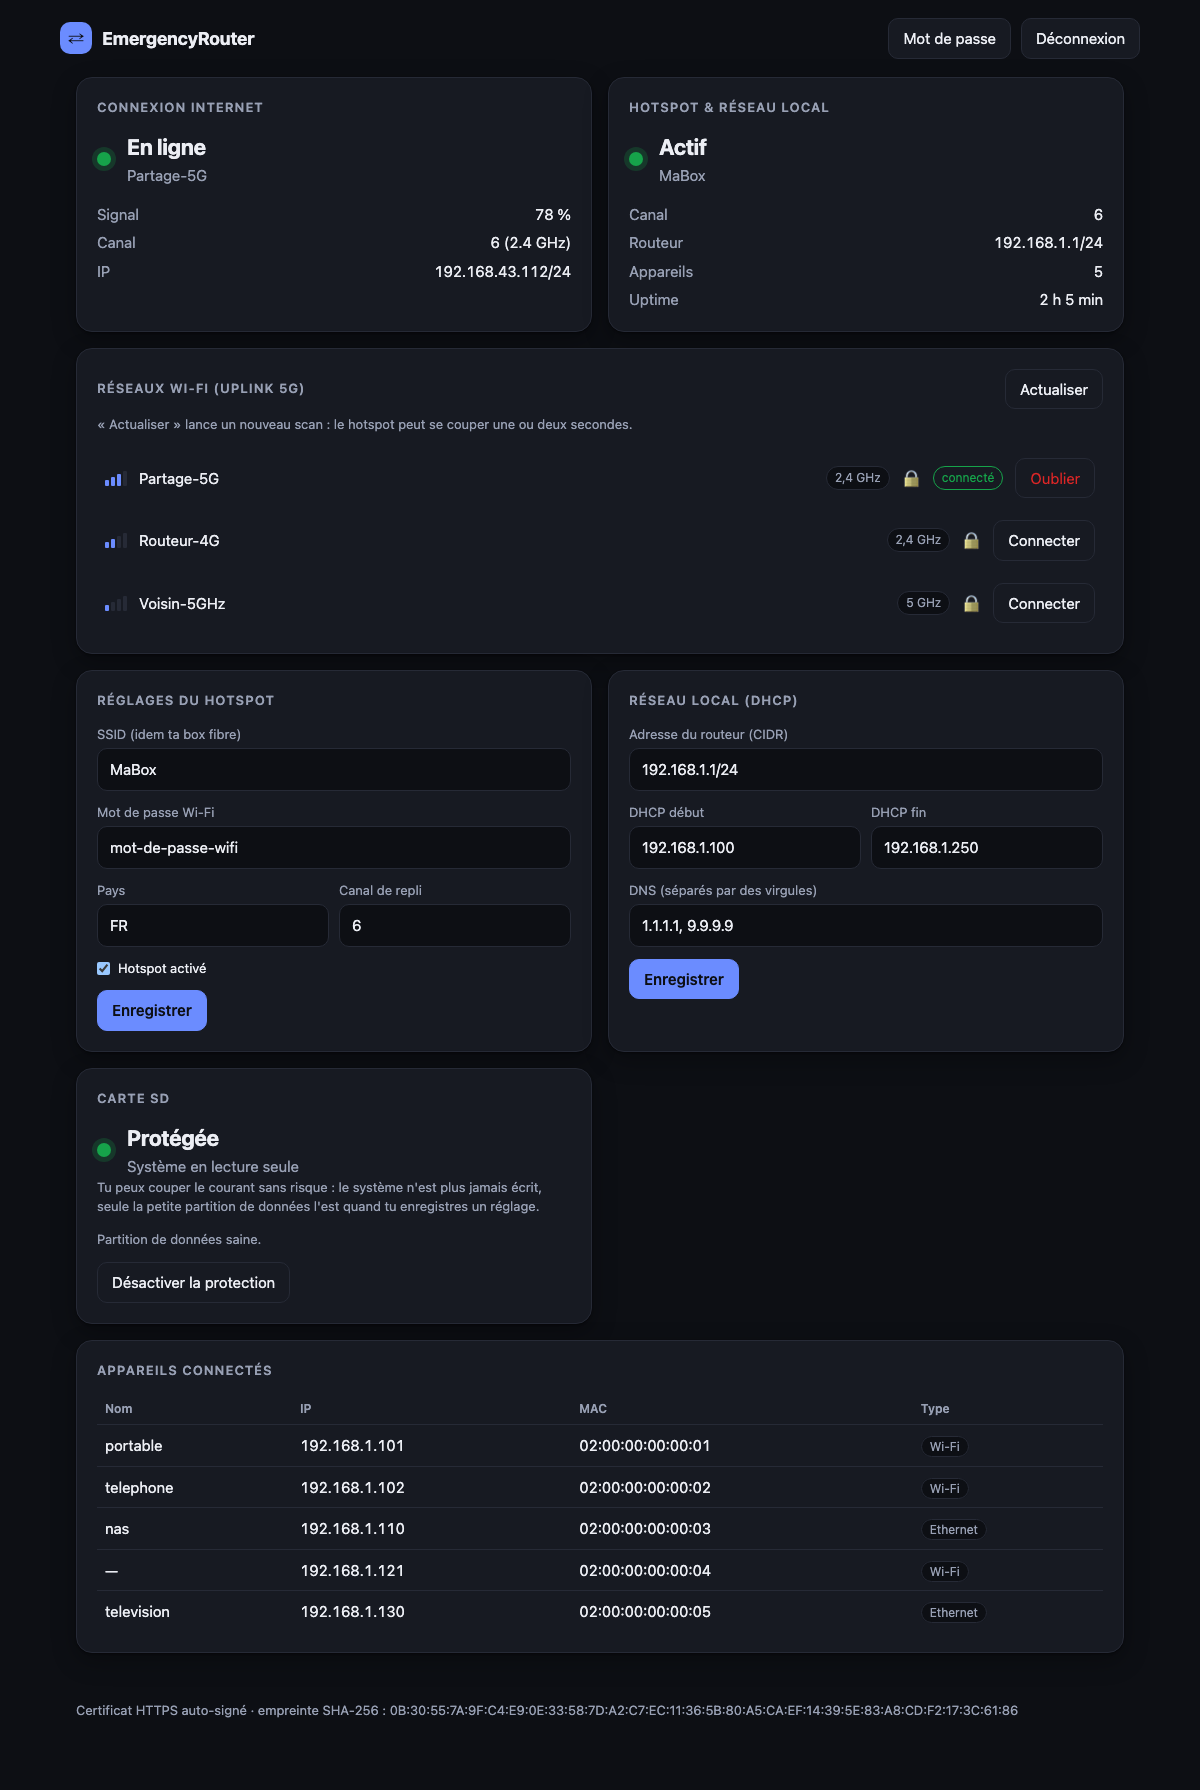
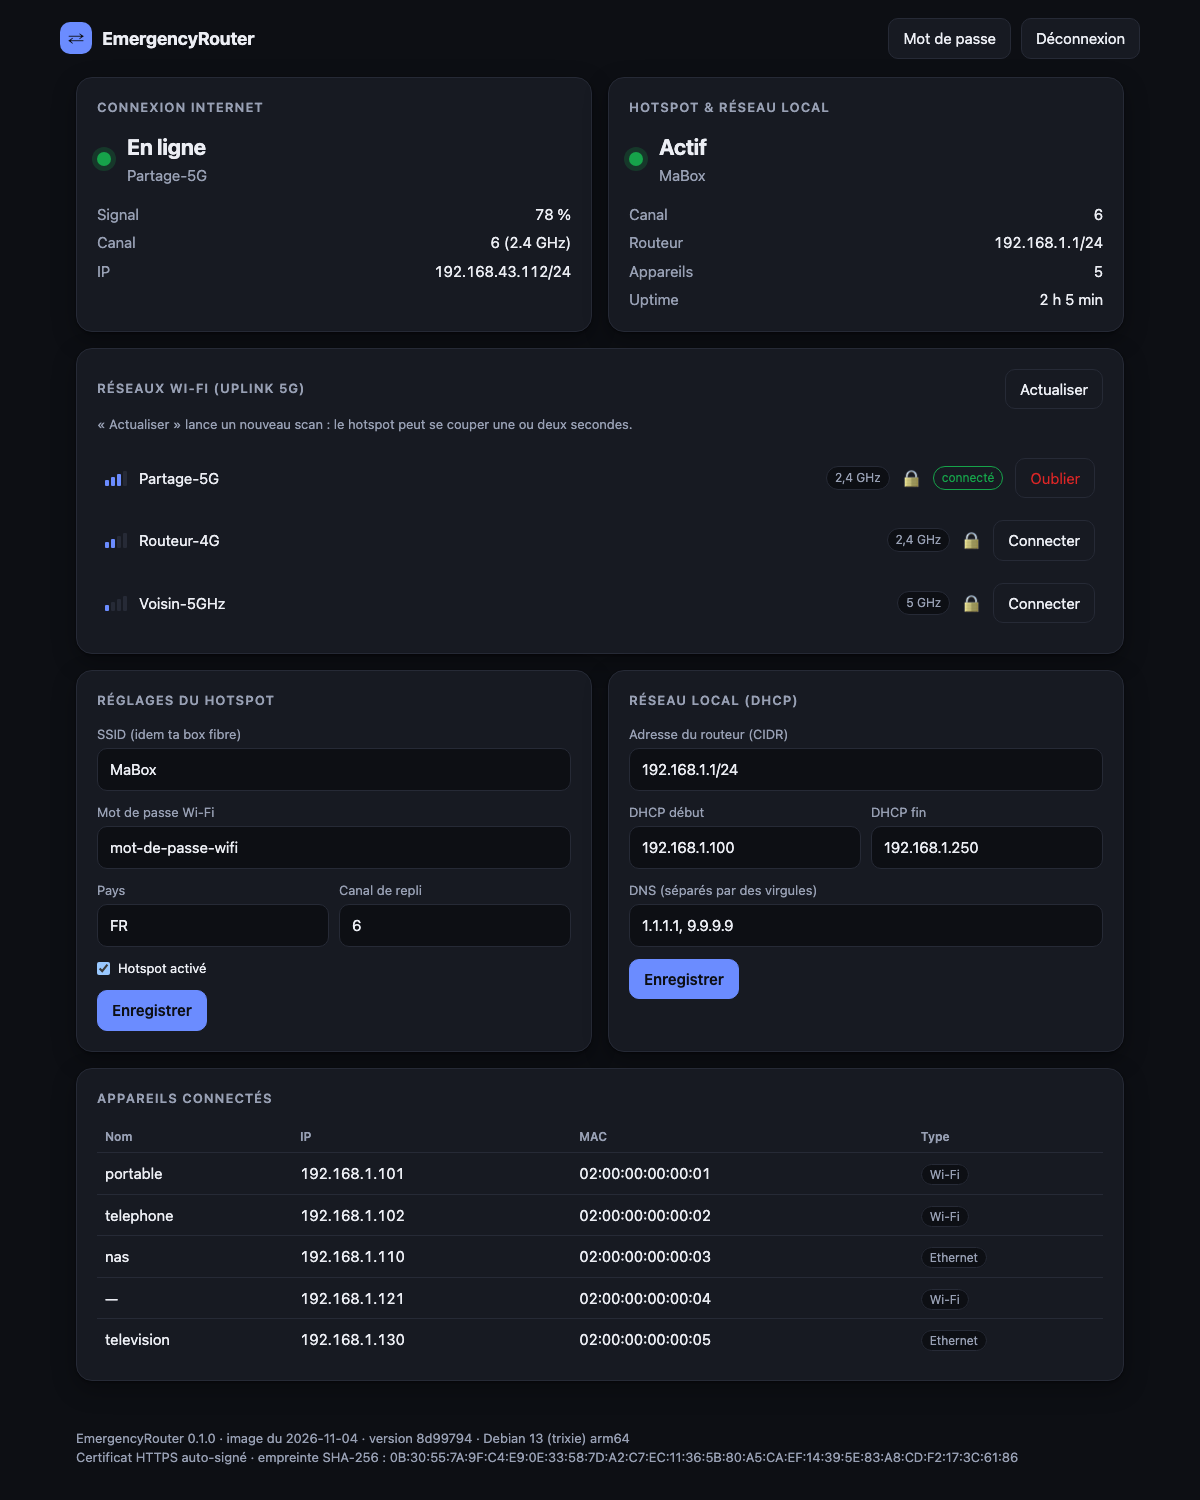
Retire la carte « Carte SD » de l'interface et affiche la version
- la protection du système se règle en ligne de commande (erouter-fs) ; l'interface n'affiche
  plus que les avertissements (partition de données réparée ou recréée) ; route /api/fs et
  méthode RPC fs_set supprimées (7 méthodes au lieu de 8)
- pied de page : version du logiciel, date et commit de l'image, système, empreinte du certificat ;
  écrit à la construction (build-info.json), visible seulement après connexion (plus de version
  dans la page de connexion)

diff --git a/erouter/static/app.js b/erouter/static/app.js
@@ -3,7 +3,6 @@ const $ = s => document.querySelector(s);
 const esc = s => String(s ?? "").replace(/[&<>"']/g, c => ({"&": "&amp;", "<": "&lt;", ">": "&gt;", '"': "&quot;", "'": "&#39;"}[c]));
 let timers = [];
 let saved = [];
-let fsState = {enabled: false};
 
 async function api(path, body) {
   const opt = body === undefined ? {} : {method: "POST", headers: {"Content-Type": "application/json"}, body: JSON.stringify(body)};
@@ -46,51 +45,19 @@ $("#loginForm").onsubmit = async e => {
 };
 $("#logoutBtn").onclick = async () => { await api("/api/logout", {}); boot(); };
 
-const DATA_STATE = {ok: "Partition de données saine.", repaired: "Partition de données réparée automatiquement au démarrage.",
-  reset: "Partition de données recréée au démarrage : configuration remise à zéro.", none: ""};
-
-function renderFs(f) {
-  fsState = f;
-  const dot = $("#fsDot"), btn = $("#fsBtn");
-  $("#fsData").textContent = f.available ? (DATA_STATE[f.data] ?? "") : "";
-  if (!f.available) {
-    dot.className = "dot warn"; $("#fsTitle").textContent = "Non disponible";
-    $("#fsSub").textContent = "Pas de partition de données";
-    $("#fsHelp").textContent = "La protection de la carte (système en lecture seule) demande l'image EmergencyRouter, qui a une partition de données séparée.";
-    btn.hidden = true;
-    return;
-  }
-  btn.hidden = false;
-  if (f.locked) {
-    dot.className = "dot ok"; $("#fsTitle").textContent = "Protégée";
-    $("#fsSub").textContent = "Système en lecture seule";
-    $("#fsHelp").textContent = "Tu peux couper le courant sans risque : le système n'est plus jamais écrit, seule la petite partition de données l'est quand tu enregistres un réglage.";
-    btn.textContent = "Désactiver la protection";
-  } else if (f.enabled) {
-    dot.className = "dot warn"; $("#fsTitle").textContent = f.rescue ? "Mode secours" : "En attente";
-    $("#fsSub").textContent = f.rescue ? "Verrouillage ignoré (erouter.unlock)" : "Verrouillage en cours";
-    $("#fsHelp").textContent = f.rescue ? "Retire « erouter.unlock » de cmdline.txt pour réactiver la protection."
-      : "Le système passera en lecture seule dès que le démarrage est terminé.";
-    btn.textContent = "Désactiver la protection";
-  } else {
-    dot.className = "dot bad"; $("#fsTitle").textContent = "Non protégée";
-    $("#fsSub").textContent = "Lecture-écriture";
-    $("#fsHelp").textContent = "Le système peut être abîmé par une coupure de courant. Active la protection quand la configuration est terminée.";
-    btn.textContent = "Activer la protection";
-  }
+function renderBuild(b) {
+  if (!b) return;
+  const parts = ["EmergencyRouter " + b.version];
+  if (b.built) parts.push("image du " + b.built);
+  if (b.commit) parts.push("version " + b.commit);
+  if (b.os) parts.push(b.os);
+  $("#buildInfo").textContent = parts.join(" · ");
 }
 function renderTls(t) {
   const el = $("#tlsInfo");
   el.hidden = !(t && t.ready);
   el.textContent = t && t.ready ? "Certificat HTTPS auto-signé · empreinte SHA-256 : " + t.fingerprint : "";
 }
-$("#fsBtn").onclick = async () => {
-  const enable = !fsState.enabled;
-  if (!enable && !confirm("Désactiver la protection de la carte SD ?")) return;
-  try { renderFs(await api("/api/fs", {enabled: enable})); toast(enable ? "Protection activée" : "Protection désactivée"); }
-  catch (e) { toast(e.message); }
-};
-
 async function refresh() {
   const s = await api("/api/status");
   const u = s.uplink;
@@ -105,7 +72,7 @@ async function refresh() {
   $("#apSub").textContent = a.enabled ? a.ssid : "";
   $("#apKv").innerHTML = kv([["Canal", a.channel], ["Routeur", s.lan.address], ["Appareils", s.lan.clients], ["Uptime", fmtUp(s.uptime)]]);
   const w = $("#warnings"); w.hidden = !s.warnings.length; w.innerHTML = s.warnings.map(esc).join("<br>");
-  renderFs(s.fs);
+  renderBuild(s.build);
   renderTls(s.tls);
   const c = await api("/api/clients");
   $("#clients").innerHTML = c.clients.map(x => `<tr><td>${esc(x.hostname || "—")}</td><td>${esc(x.ip)}</td><td>${esc(x.mac)}</td>` +

diff --git a/erouter/static/index.html b/erouter/static/index.html
@@ -79,21 +79,15 @@
     </form>
   </section>
 
-  <section class="card">
-    <h2>Carte SD</h2>
-    <div class="hero"><span class="dot" id="fsDot"></span>
-      <div><div class="big" id="fsTitle">…</div><div class="muted" id="fsSub"></div></div></div>
-    <p class="muted small" id="fsHelp"></p>
-    <p class="muted small" id="fsData"></p>
-    <button id="fsBtn" hidden></button>
-  </section>
-
   <section class="card wide">
     <h2>Appareils connectés</h2>
     <div class="table-wrap"><table><thead><tr><th>Nom</th><th>IP</th><th>MAC</th><th>Type</th></tr></thead><tbody id="clients"></tbody></table></div>
   </section>
 </main>
-<footer class="foot muted small" id="tlsInfo" hidden></footer>
+<footer class="foot muted small">
+  <div id="buildInfo"></div>
+  <div id="tlsInfo" hidden></div>
+</footer>
 </div>
 
 <dialog id="joinDlg">

diff --git a/erouter/web.py b/erouter/web.py
@@ -1,6 +1,7 @@
 """Interface web (service sans privilèges). Tout ce qui touche au système passe par l'agent (rpc.py)."""
 import functools
 import hashlib
+import json
 import logging
 import os
 import re
@@ -18,6 +19,7 @@ from . import __version__, config, rpc
 log = logging.getLogger("erouter.web")
 
 STATIC = os.path.join(os.path.dirname(__file__), "static")
+BUILD_INFO = os.environ.get("EROUTER_BUILD_INFO", "/usr/share/erouter/build-info.json")
 DEFAULT_AP_PASSWORDS = ("erouter-setup", "changeme123")   # mots de passe de démonstration, publics
 PASSWORD_MIN, PASSWORD_MAX = 8, 128      # le maximum évite de faire calculer un hash sur une entrée géante
 MAX_FAILURES, FAILURE_WINDOW = 5, 60     # 5 échecs par minute et par adresse
@@ -57,6 +59,20 @@ def init_secret(timeout=30):
     if not secret:
         log.warning("secret de session absent : clé temporaire (les sessions ne survivront pas à un redémarrage)")
     app.secret_key = secret or _BOOT_SECRET
+
+
+def build_info():
+    """Version du logiciel et de l'image (écrite à la construction) : affichée seulement après connexion."""
+    info = {"version": __version__}
+    try:
+        with open(BUILD_INFO) as f:
+            data = json.load(f)
+        for key in ("version", "commit", "built", "os", "source"):
+            if isinstance(data.get(key), str) and len(data[key]) <= 64:
+                info[key] = data[key]
+    except (OSError, ValueError, AttributeError):
+        pass
+    return info
 
 
 def _cfg():
@@ -164,7 +180,7 @@ def static_files(name):
 def get_session():
     cfg = _cfg()
     ok = bool(session.get("ok")) and session.get("pv") == _fingerprint(cfg)
-    return jsonify(setup_needed=not cfg["web"]["password_hash"], authenticated=ok, version=__version__)
+    return jsonify(setup_needed=not cfg["web"]["password_hash"], authenticated=ok)
 
 
 @app.post("/api/login")
@@ -226,6 +242,7 @@ def status():
     s = rpc.call("status")
     s["lan"] = {"address": cfg["lan"]["address"], "clients": s.pop("clients")}
     s["ap"]["ssid"] = cfg["ap"]["ssid"]
+    s["build"] = build_info()
     if cfg["ap"]["password"] in DEFAULT_AP_PASSWORDS:
         s["warnings"].append("Le hotspot utilise encore un mot de passe par défaut, connu de tous : "
                              "change-le dans « Réglages du hotspot ».")
@@ -295,15 +312,6 @@ def set_settings():
 @auth
 def clients():
     return jsonify(clients=rpc.call("clients"))
-
-
-@app.post("/api/fs")
-@auth
-def set_fs():
-    try:
-        return jsonify(rpc.call("fs_set", enabled=bool(request.get_json().get("enabled"))))
-    except RuntimeError as e:
-        return err(e, 500)
 
 
 @app.post("/api/reboot")

diff --git a/tests/test_erouter.py b/tests/test_erouter.py
@@ -450,6 +450,29 @@ class WebTests(unittest.TestCase):
         finally:
             web.configure(False)
 
+    def test_version_is_only_shown_after_login(self):
+        self.assertNotIn("version", self.c.get("/api/session").get_json(), "pas de version pour un visiteur anonyme")
+        self.login()
+        info = os.path.join(_TMP, "build-info.json")
+        with open(info, "w") as f:
+            json.dump({"version": "9.9.9", "commit": "abc1234", "built": "2026-11-04", "os": "Debian 13", "evil": "x"}, f)
+        with mock.patch.object(web, "BUILD_INFO", info):
+            b = self.c.get("/api/status").get_json()["build"]
+        self.assertEqual((b["version"], b["commit"], b["built"], b["os"]), ("9.9.9", "abc1234", "2026-11-04", "Debian 13"))
+        self.assertNotIn("evil", b, "seules les clés connues sont exposées")
+
+    def test_build_info_falls_back_to_package_version(self):
+        for content in (None, "pas du json", "[1, 2]", json.dumps({"version": "x" * 500})):
+            with self.subTest(content):
+                path = os.path.join(_TMP, "bi.json")
+                if content is None:
+                    path = os.path.join(_TMP, "absent.json")
+                else:
+                    with open(path, "w") as f:
+                        f.write(content)
+                with mock.patch.object(web, "BUILD_INFO", path):
+                    self.assertEqual(web.build_info()["version"], web.__version__)
+
     def test_status_exposes_tls_fingerprint_and_data_state(self):
         self.login()
         s = self.c.get("/api/status").get_json()

diff --git a/erouter/agentd.py b/erouter/agentd.py
@@ -7,7 +7,7 @@ import logging
 import subprocess
 import threading
 
-from . import agent, config, fs, lan, rpc, system
+from . import agent, config, lan, rpc, system
 
 log = logging.getLogger("erouter.agentd")
 
@@ -61,18 +61,13 @@ def m_save_config(cfg):
     return True
 
 
-def m_fs_set(enabled):
-    fs.set_enabled(bool(enabled))
-    return fs.status()
-
-
 def m_reboot():
     subprocess.Popen(["systemctl", "reboot"])
     return True
 
 
 METHODS = {"status": m_status, "scan": m_scan, "connect": m_connect, "forget": m_forget,
-           "clients": m_clients, "save_config": m_save_config, "fs_set": m_fs_set, "reboot": m_reboot}
+           "clients": m_clients, "save_config": m_save_config, "reboot": m_reboot}
 
 
 def _ensure_secret():

diff --git a/README.md b/README.md
@@ -64,7 +64,7 @@ Sans l'image il n'y a pas de partition de données séparée : la protection de 
 | `erouter-data` (`scripts/erouter-data`) | root, au démarrage | vérifie, répare ou recrée la partition de données `/data`, puis la monte |
 | `erouter-agent` (`agent.py`, `agentd.py`, `lan.py`, `tls.py`, `fs.py`) | root | pont `br0`, `ap0`, hostapd, dnsmasq, nftables ; suit le canal de l'uplink ; surveille Internet ; certificat HTTPS ; verrouillage du système ; seul à écrire la config |
 | `erouter-web` (`web.py`, `webd.py`, `static/`) | utilisateur `erouter`, système en lecture seule, seul droit : ports 80/443 | API Flask + interface (sans dépendance externe, fonctionne hors-ligne), servie en HTTPS par gunicorn ; le port 80 redirige vers HTTPS |
-| `rpc.py` | | socket local `/run/erouter/agent.sock` (0660 root:erouter) ; l'agent n'expose que 8 méthodes et valide chaque paramètre |
+| `rpc.py` | | socket local `/run/erouter/agent.sock` (0660 root:erouter) ; l'agent n'expose que 7 méthodes et valide chaque paramètre |
 
 Services supplémentaires : `erouter-hostapd`, `erouter-dnsmasq`. Détails et limites : [SECURITY.md](SECURITY.md).
 
@@ -86,7 +86,8 @@ Un routeur de secours dort longtemps puis subit une coupure de courant. L'image 
 - Le système n'est écrit que pendant le démarrage (le temps que tout soit lancé), puis verrouillé.
 - La racine n'est **pas** agrandie au premier démarrage (le mot `resize` est retiré de `cmdline.txt`) : le reste de la carte est inutilisé.
 - Journaux et baux DHCP en RAM, pas de swap, pas de mises à jour automatiques.
-- L'état se voit (et se règle) dans l'interface, carte « Carte SD », ou : `sudo erouter-fs status | lock | unlock`.
+- L'état se voit et se règle en ligne de commande : `sudo erouter-fs status | lock | unlock`. L'interface n'affiche que les
+  avertissements (partition de données réparée ou recréée).
 - **Mettre à jour le système** : `sudo erouter-fs unlock && sudo reboot`, puis `sudo apt update && sudo apt upgrade`,
   puis `sudo erouter-fs lock`.
 - **Sortie de secours** : retire la carte, ouvre `cmdline.txt` sur la partition de boot (visible depuis un Mac) et ajoute

diff --git a/SECURITY.md b/SECURITY.md
@@ -16,7 +16,7 @@ Il ne protège pas contre un attaquant qui a un accès physique au Pi (carte SD,
 |---|---|
 | Pare-feu | nftables, politique « drop » : rien n'est joignable depuis l'uplink (5G) ; depuis le LAN seulement DHCP, DNS, mDNS, web et SSH (SSH limité en débit) ; anti-usurpation d'adresse source |
 | Privilèges | l'interface web tourne sous un utilisateur dédié, sans droits (seul le port 80 est autorisé), avec un système de fichiers en lecture seule et un filtre d'appels système |
-| Agent root | n'écoute que sur un socket Unix (0660 `root:erouter`), expose 8 méthodes, valide chaque paramètre ; aucune commande n'est lancée via un shell |
+| Agent root | n'écoute que sur un socket Unix (0660 `root:erouter`), expose 7 méthodes, valide chaque paramètre ; aucune commande n'est lancée via un shell |
 | Configuration | le web ne peut pas écrire le fichier : il demande à l'agent, qui nettoie, valide (anti-injection dans dnsmasq/hostapd) et écrit ; la config est revalidée à chaque lecture |
 | HTTPS | certificat auto-signé EC P-256 créé par l'agent, clé privée `640 root:erouter`, TLS 1.2 minimum, redirection du port 80, cookie de session `__Host-` + `Secure` ; l'empreinte du certificat est affichée dans l'interface |
 | Web | en-têtes CSP stricte (aucun script ni style en ligne), `X-Frame-Options`, `nosniff`, sessions `SameSite=Strict`, contrôle du `Host` (anti DNS-rebinding) et de l'`Origin` (anti CSRF), 5 essais de connexion par minute, hash de mot de passe scrypt, sessions invalidées au changement de mot de passe, taille des requêtes limitée, aucune version de serveur annoncée |
